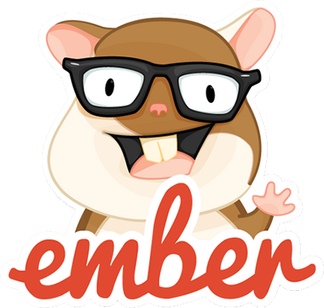
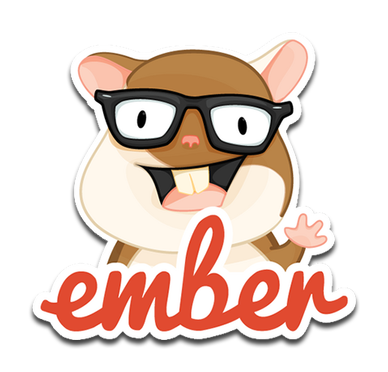
Improve tomster link

diff --git a/css/app.css b/css/app.css
@@ -53,7 +53,7 @@
   text-align: center;
 }
 
-.pane header a {
+.pane header nav a {
   display: inline-block;
   border: 1px solid rgba(0, 0, 0, 0);
   padding: 3px 8px 2px 8px;
@@ -66,7 +66,7 @@
   color: rgb(246, 236, 232);
 }
 
-.pane header a.active {
+.pane header nav a.active {
   border: 1px solid rgb(146, 60, 46);
   border-radius: 3px;
 
@@ -103,10 +103,20 @@
   left: 38.2%;
 }
 
-#viewer header img {
+#viewer header .ember-link {
   position: absolute;
-  top: 10%; right: 1em;
-  height: 80%;
+  top: 0; right: 0; bottom: 0; left: auto;
+  padding: 0 0.618em;
+}
+
+#viewer header .ember-link img {
+  display: block;
+  margin: 0;
+  height: 100%;
+}
+
+#viewer header .ember-link:active img {
+  opacity: 0.75;
 }
 
 .ace-view {

diff --git a/index.html b/index.html
@@ -26,7 +26,9 @@
     <section class="pane global" id="viewer">
       <header>
         <span class="title">Viewer</span>
-        <img src="img/tomster.png">
+        <a href="http://emberjs.com" class="ember-link">
+          <img src="img/tomster.png" alt="Ember.js">
+        </a>
       </header>
       <section class="main">
         {{frame jsBinding="js" hbsBinding="hbs" cssBinding="css"}}
